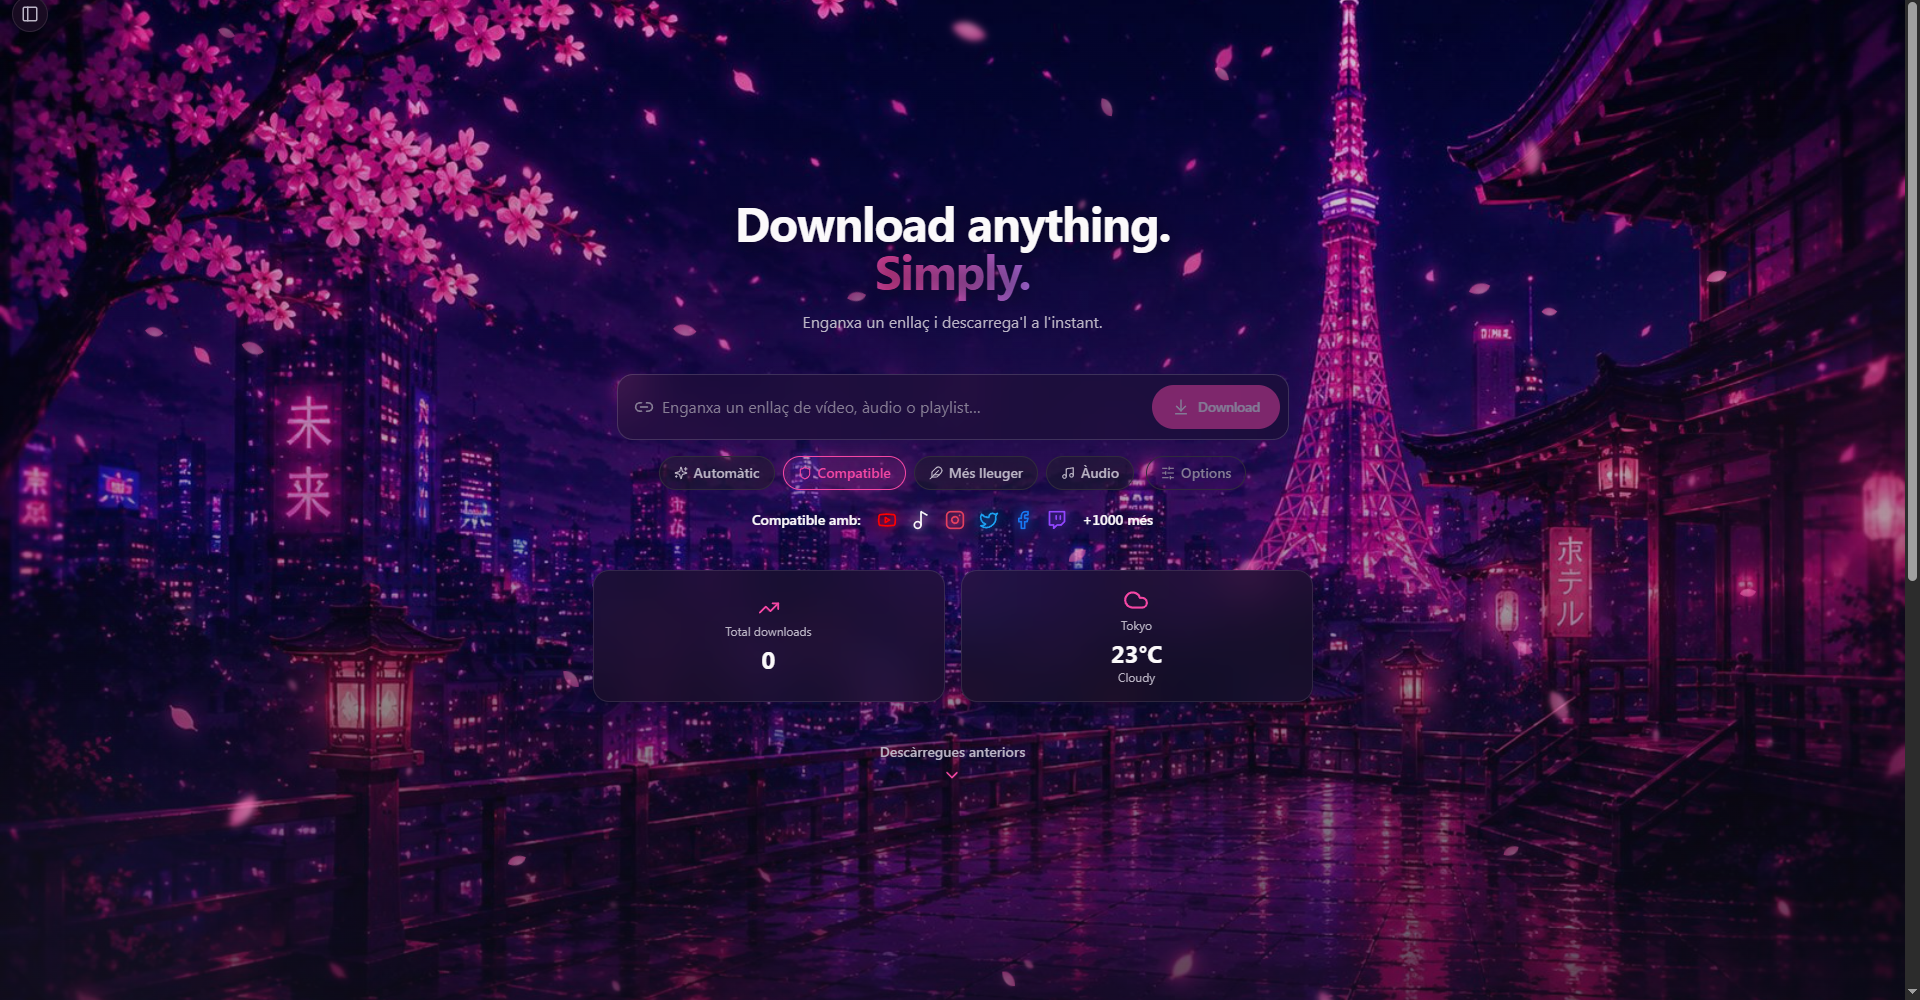
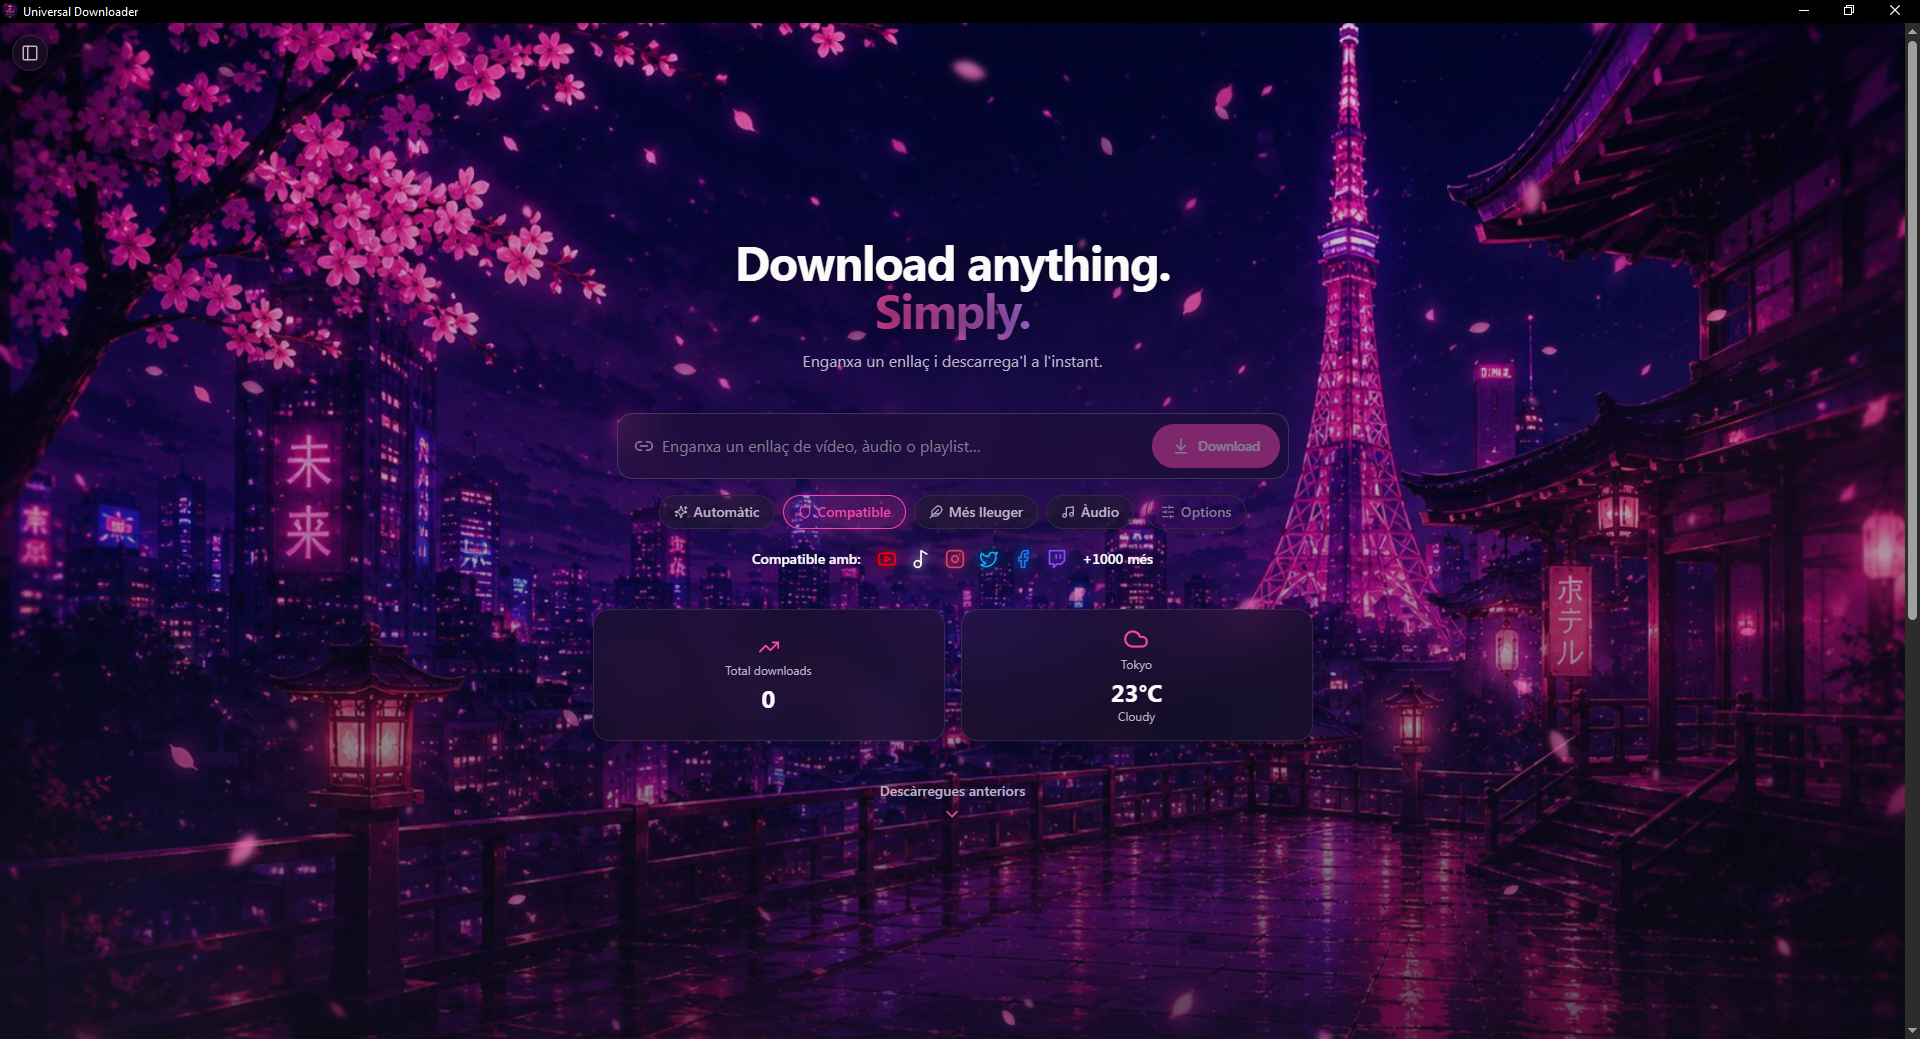
Show full uncropped screenshots at consistent size
Revert the cropping — show the complete screenshots as captured,
all at the same width (850px) for visual consistency.

diff --git a/README.md b/README.md
@@ -49,6 +49,8 @@ Under the hood: **yt-dlp** + **FFmpeg**, wrapped in a **Tauri + Rust + React** d
 
 <div align="center">
   <img src="docs/assets/comfunciona.png" alt="How Universal Downloader works" width="850" />
+  <br /><br />
+  <img src="docs/assets/cor.png" alt="Universal Downloader about dialog" width="850" />
 </div>
 
 1. 🔗 **Paste a link** — video, audio or playlist.
@@ -157,8 +159,6 @@ MIT — see [`LICENSE`](LICENSE). © 2026 Kai
 ---
 
 <div align="center">
-
-<img src="docs/assets/cor.png" alt="Made with love" width="260" />
 
 <h3>Made with ❤ by Kai</h3>
 
